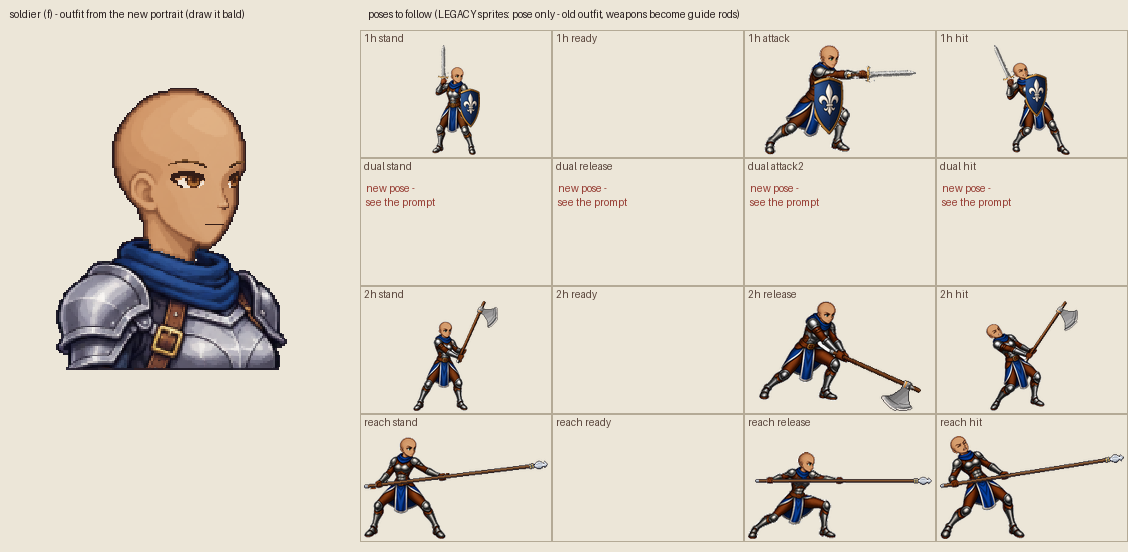
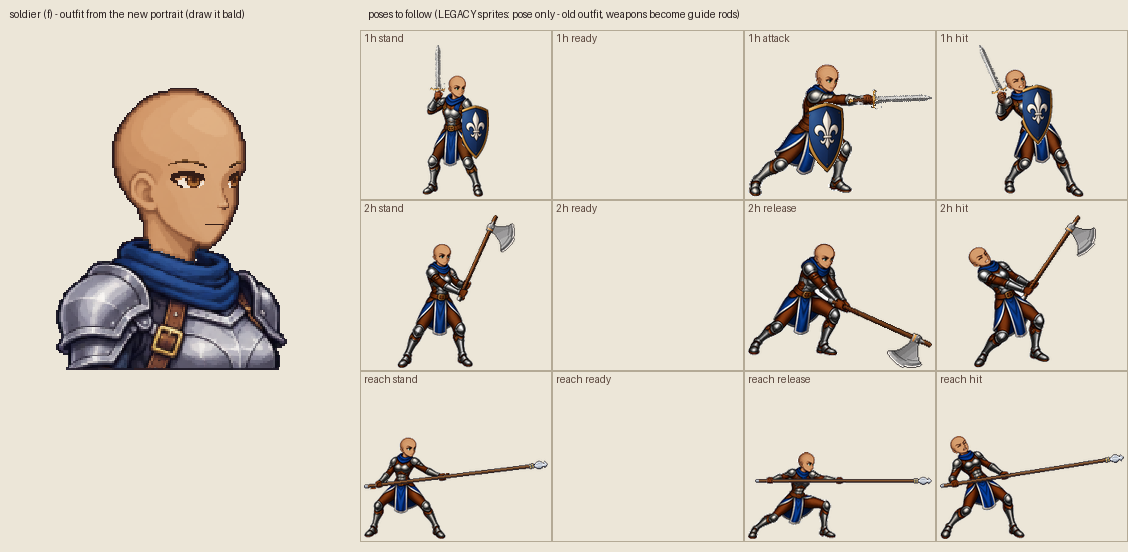
Soldier dual weapons on their own sheet (user's dual-slash concept)
New 2x3 dual template (stand, ready, slash 1, slash 2, finish, get hit) and prompt that
names the arms by rod colour only (front = cyan, back = magenta). Main Soldier sheet is now
3 rows x 4 (shield, two-handed, spear). Pipeline: extra sheets per class (EXTRA_SHEETS),
old layouts per sheet (SHEET_ROWS keeps the male v5 sheet readable), per-sheet scaling,
slash/finish states and single-weapon playback.

Claude-Session: https://claude.ai/code/session_01M8ejkLTav7LEMdtajuWjkN

diff --git a/art_source/new_art/battle/process_battle.py b/art_source/new_art/battle/process_battle.py
@@ -27,7 +27,7 @@ import process_pose as PP          # (chdirs to poses/)
 import anim as A                   # (chdirs to animation/)
 from skin_layers import tint
 import finish
-from make_refs import CLASSES, cells, states_for
+from make_refs import CLASSES, cells, states_for, EXTRA_SHEETS, SHEET_ROWS
 os.chdir(cwd)
 
 FIG_H = 190                         # stand figure height in sprite pixels (Legacy: ~197 incl. outline)
@@ -281,21 +281,30 @@ PENDING = {}
 
 def process(cls):
     for d in ('layers', 'grips', 'sprites', 'source'): os.makedirs(os.path.join(HERE, d), exist_ok=True)
-    rows = CLASSES[cls]; data = {}
+    data = {}
     for sex in 'mf':
-        src = os.path.join(HERE, 'source', f'{cls}_{sex}_sheet.png')
-        if not os.path.exists(src): print('no sheet yet:', src); continue
-        a = np.asarray(Image.open(src).convert('RGB'))
-        sx, sy = a.shape[1] / 1536, a.shape[0] / 1024
-        cut = {}
-        for r, c, stance, state, (x0, y0, x1, y1) in cells(rows, cls):
-            box = (round(x0 * sx), round(y0 * sy), round(x1 * sx), round(y1 * sy))
-            cut[(stance, state)] = cut_cell(a, box)
-        hs = [figure_height(*cut[k])[0] for k in cut if k[1] == 'stand']
-        s = FIG_H / float(np.median(hs))
-        for (stance, state), (c, fg) in cut.items():
-            if stance in PENDING.get(cls, ()): continue
-            data[(sex, stance, state)] = one_cell(cls, sex, stance, state, c, fg, s)
+        rows = SHEET_ROWS.get((cls, sex), CLASSES[cls])
+        sheets = [(f'{cls}_{sex}_sheet.png', rows)] + [(f'{cls}_{nm}_{sex}_sheet.png', r_) for nm, r_ in EXTRA_SHEETS.get(cls, {}).items()]
+        have = [(f, r_) for f, r_ in sheets if os.path.exists(os.path.join(HERE, 'source', f))]
+        if not have: print('no sheet yet:', cls, sex); continue
+        extra_stances = {st for f, r_ in have[1:] if f != sheets[0][0] for st, _ in r_}
+        s = None
+        for fname, rws in have:
+            a = np.asarray(Image.open(os.path.join(HERE, 'source', fname)).convert('RGB'))
+            sx, sy = a.shape[1] / 1536, a.shape[0] / 1024
+            main = fname == sheets[0][0]
+            cut = {}
+            for r, c, stance, state, (x0, y0, x1, y1) in cells(rws, cls):
+                if main and stance in extra_stances: continue          # that stance comes from its own sheet now
+                box = (round(x0 * sx), round(y0 * sy), round(x1 * sx), round(y1 * sy))
+                cut[(stance, state)] = cut_cell(a, box)
+            hs = [figure_height(*cut[k])[0] for k in cut if k[1] == 'stand']
+            s_sheet = FIG_H / float(np.median(hs))                  # each sheet scaled by its own stand figures
+            if main: s = s_sheet
+            for (stance, state), (c, fg) in cut.items():
+                if stance in PENDING.get(cls, ()): continue
+                data[(sex, stance, state)] = one_cell(cls, sex, stance, state, c, fg, s_sheet)
+        if s is None: s = s_sheet
         # extra cells from fix sheets (same grid): e.g. the shield-braced 1h attack, used only with a shield
         for (xs, stance, state, tag, fname) in EXTRA.get(cls, []):
             if xs != sex or not os.path.exists(os.path.join(HERE, 'source', fname)): continue
@@ -332,9 +341,11 @@ def render(cls, data):
             hair, hramp, sramp = SAMPLE_HAIR[sex][li % len(SAMPLE_HAIR[sex])]
             frames = {}
             ref = None
-            sts = [t for t in states_for(cls, stance) if (sex, stance, t) in data]
-            if not any(w for h_, w, _ in items['attack'] if h_ == 'front'):
-                sts = [t for t in sts if t != 'attack2']            # one weapon: only the main-hand attack
+            ORDER = ['stand', 'ready', 'attack', 'attack2', 'slash_left', 'slash_right', 'finish', 'hit']
+            sts = [t for t in ORDER if (sex, stance, t) in data]
+            if not any(w for h_, w, _ in items['attack'] if h_ == 'front'):   # one weapon: only the main-hand (magenta) moves
+                sts = [t for t in sts if t not in ('attack2', 'slash_left')] if 'slash_right' not in sts else \
+                      [t for t in sts if t not in ('ready', 'slash_left')]
             for state in sts:
                 its = items.get(state) or items['attack']
                 shielded = any(w == 'shield' for _, w, _ in its)
@@ -356,9 +367,10 @@ def render(cls, data):
             rows.append((f'{cls} {sex} {load}  (sample hair: {hair}, {hramp}; skin {sramp})', frames))
     x0, x1 = 20, 399
     cw = x1 - x0; ch = 270
-    sheet = Image.new('RGB', (2 * (cw * 4 + 12), ((len(rows) + 1) // 2) * (ch + 16)), (236, 230, 216)); d = ImageDraw.Draw(sheet)
+    NC = max(len(fr) for _, fr in rows) if rows else 4
+    sheet = Image.new('RGB', (2 * (cw * NC + 12), ((len(rows) + 1) // 2) * (ch + 16)), (236, 230, 216)); d = ImageDraw.Draw(sheet)
     for i, (lab, fr) in enumerate(rows):
-        ox = (i % 2) * (cw * 4 + 12); oy = (i // 2) * (ch + 16)
+        ox = (i % 2) * (cw * NC + 12); oy = (i // 2) * (ch + 16)
         d.text((ox + 4, oy + 2), lab, fill=(60, 50, 40))
         for j, st in enumerate(fr):
             t = Image.fromarray(fr[st][:, x0:x1]); sheet.paste(t, (ox + j * cw, oy + 14), t)

diff --git a/art_source/new_art/battle/make_refs.py b/art_source/new_art/battle/make_refs.py
@@ -16,7 +16,8 @@ import finish
 
 # stance rows per class (design doc table) and the legacy loadout that shows each row's poses
 CLASSES = {
-    'soldier': [('1h', 'sword_shield'), ('dual', None), ('2h', 'greataxe'), ('reach', 'longspear')],   # v2 (user concept)
+    # v6 (2026-11-21): main sheet = shield, two-handed, spear; the dual weapons get their own sheet (EXTRA_SHEETS)
+    'soldier': [('1h', 'sword_shield'), ('2h', 'greataxe'), ('reach', 'longspear')],
     'archer':  [('1h', 'dagger'), ('bow', 'bow'), ('crossbow', None)],
     'acolyte': [('1h', 'mace_shield'), ('2h', 'quarterstaff'), ('reach', 'longspear')],
     'mage':    [('1h', 'staff')],
@@ -36,21 +37,28 @@ CLASS_STATES = {'soldier': {'1h': ['stand', 'ready', 'attack', 'hit'], 'dual': [
                             '2h': ['stand', 'ready', 'attack', 'hit'], 'reach': ['stand', 'ready', 'attack', 'hit']}}
 
 
+# extra sheets per class: name -> rows of (stance, [cell states]). Soldier dual = user's dual-slash concept (2026-11-21):
+# stand, ready (front/cyan arm winds up), slash_left (cyan slashes down), slash_right (magenta sweeps), finish, hit
+EXTRA_SHEETS = {'soldier': {'dual': [('dual', ['stand', 'ready', 'slash_left']), ('dual', ['slash_right', 'finish', 'hit'])]}}
+# older sheets drawn on an earlier layout: (class, sex) -> rows
+SHEET_ROWS = {('soldier', 'm'): [('1h', 'sword_shield'), ('dual', None), ('2h', 'greataxe'), ('reach', 'longspear')]}   # v5 male
+
+
 def states_for(cls, stance):
     return CLASS_STATES.get(cls, {}).get(stance) or STATES.get(stance, ['stand', 'attack', 'hit'])
 
 
 def cells(rows, cls=None):
     rh = H / len(rows)
-    for r, (stance, _) in enumerate(rows):
-        states = states_for(cls, stance)
+    for r, (stance, extra) in enumerate(rows):
+        states = extra if isinstance(extra, list) else states_for(cls, stance)
         cw = W / len(states)
         for c, st in enumerate(states):
             yield r, c, stance, st, (round(c * cw), round(r * rh), round((c + 1) * cw), round((r + 1) * rh))
 
 
-def template(cls):
-    rows = CLASSES[cls]
+def template(cls, rows=None, name=None):
+    rows = rows or CLASSES[cls]
     im = Image.new('RGB', (W, H), GREEN); d = ImageDraw.Draw(im)
     for r, c, stance, st, (x0, y0, x1, y1) in cells(rows, cls):
         h = y1 - y0
@@ -59,7 +67,7 @@ def template(cls):
         d.line([x0 + 12, g, x1 - 12, g], fill=GROUND, width=3)
         for x in range(x0 + 12, x1 - 12, 24): d.line([x, t, x + 12, t], fill=TOP, width=2)
     os.makedirs(os.path.join(HERE, 'templates'), exist_ok=True)
-    im.save(os.path.join(HERE, 'templates', f'{cls}_template.png'))
+    im.save(os.path.join(HERE, 'templates', f'{name or cls}_template.png'))
 
 
 def bust(sex, cls):
@@ -117,5 +125,6 @@ if __name__ == '__main__':
     ammo_template()
     for cls in CLASSES:
         template(cls)
+        for nm, rows_x in EXTRA_SHEETS.get(cls, {}).items(): template(cls, rows_x, f'{cls}_{nm}')
         for sex in 'mf': ref(cls, sex)
     print('ok')

diff --git a/art_source/new_art/battle/PROMPTS.md b/art_source/new_art/battle/PROMPTS.md
@@ -47,30 +47,29 @@ sheet has a crossbow row (stand | aim | release | hit, user's choice 2026-11-19)
 
 ## Class blocks (paste after the common prompt)
 
-### Soldier (v5, 2026-11-20 - self-contained, do NOT paste the common prompt)
-v5 = 4 cells per row (user, 2026-11-20): STAND | READY | ATTACK | GET HIT, and the dual row STAND | ATTACK 1 (main
-hand) | ATTACK 2 (off-hand) | GET HIT. Otherwise as v4 = dual row with fixed hands (see the hand rule below) and a long-hair piece in a
-red key under the helmet for both sexes (shown only for long portrait hairstyles, `hair_length.json`).
+### Soldier main sheet (v6, 2026-11-21 - self-contained, do NOT paste the common prompt)
+Main sheet = shield, two-handed and spear rows, 4 cells each (STAND | READY | ATTACK | GET HIT); the dual weapons have
+their own sheet (next section). Long-hair piece in a red key under the helmet for both sexes (shown only for long
+portrait hairstyles, `hair_length.json`).
 Attach, in this order: (1) `templates/soldier_template.png`, (2) `source/concepts/soldier_outfit_ref.png` (the final design cropped to the outfit only: its animation frames had the dual
 weapons in the wrong hands, so they are left out),
 (3) `refs/soldier_shield_ref.png`. Replace `<SEX>`, add the male or female line, one run per sex.
 
 ```
-Use the first attached image as the canvas: a grid of 4 rows x 4 cells on flat pure green (#00FF00), each cell with a dark-green ground line and a dashed head-top line. Keep the canvas size, the grid and the green exactly as they are. Draw ONE full-body character per cell, feet on that cell's ground line, top of the helmet at the dashed line when standing upright, all 16 figures at the same scale and the same character.
+Use the first attached image as the canvas: a grid of 3 rows x 4 cells on flat pure green (#00FF00), each cell with a dark-green ground line and a dashed head-top line. Keep the canvas size, the grid and the green exactly as they are. Draw ONE full-body character per cell, feet on that cell's ground line, top of the helmet at the dashed line when standing upright, all 12 figures at the same scale and the same character.
 
 Character: <SEX> Soldier, exactly as in the second attached image (outfit reference only - it shows no poses): Standard plain BARBUTE helm (open face, no crest, no gold, no emblem), simple silver plate armour (rounded pauldrons, plain cuirass, segmented tassets), blue scarf, blue tabard with a light trim, brown leather belt and gloves, steel greaves. Ignore its text labels. Style: Fire Emblem-style anime pixel art matching that sheet: clean dark outlines, cel shading, light from the upper left, natural anime proportions about 6 heads tall including the helmet, 3/4 view FACING RIGHT in every cell, body turned to the right.
 
-Rows, top to bottom. Rows 1, 3 and 4: cells left to right = STAND | READY | ATTACK | GET HIT, where READY is the wind-up a moment before the attack. Row 2: STAND | ATTACK 1 | ATTACK 2 | GET HIT.
+Rows, top to bottom; cells left to right = STAND | READY | ATTACK | GET HIT, where READY is the wind-up a moment before the attack.
 1. Sword + SQUARE shield (the third attached image shows STAND, ATTACK and GET HIT - copy those poses only): the LEFT arm carries the Soldier's own large SQUARE shield in every cell of this row: an upright rectangle with slightly rounded corners, from the shoulder to mid-thigh, as wide as the torso, dark navy-blue face with a silver/white cross in relief, a silver steel rim with rivets - no gold or yellow on it. The left fist is hidden behind the shield (no cyan rod in this row). STAND = guard: shield held upright in front of the torso, covering it; right fist raised beside the shoulder with the magenta rod pointing up (sword raised). READY = wind-up: shield pulled in tight in front of the chest, body coiled, weight on the back foot, the right arm drawn back behind the shoulder with the magenta rod angled back. ATTACK = controlled horizontal slash: deep lunge forward, the right arm sweeps across IN FRONT of the body at waist height, magenta rod pointing forward and slightly down; the shield opens slightly to the side (still on the left arm, turned a little outward) so the sword arm passes in front of it. GET HIT = grounded recoil: feet planted, knees bent, braced behind the shield, the shield tilted up and forward to absorb the blow, head knocked back and wincing, right fist low by the hip holding the magenta rod pointing down.
-2. Dual weapons (no shield): the same side-on stance as the shield row - the LEFT arm is the lead arm in front (on the right-hand side of the picture, where the shield arm is in row 1) and the RIGHT arm is the rear arm (its shoulder on the left side of the picture). STAND = left (lead) hand forward at waist height holding the cyan rod pointing forward and slightly down; right (rear) hand back and low holding the magenta rod. ATTACK 1 (main hand) = the RIGHT (rear) arm swings forward ACROSS the front of the body and thrusts out at shoulder height holding the magenta rod level and pointing forward; the left arm pulls back and down with the cyan rod. ATTACK 2 (off-hand) = the LEFT (lead) arm thrusts fully forward at shoulder height holding the cyan rod level; the right arm pulls back low with the magenta rod. GET HIT = recoiling back, wincing, left hand in front with the cyan rod, right hand back with the magenta rod.
-3. Two-handed (no shield): both fists together on ONE magenta rod (one fist above the other). STAND = rod held upright in front of the body, fists at the waist. READY = wind-up: rod raised high over the right shoulder, both fists together above the head, body leaning back, weight on the back foot. ATTACK = heavy downward strike finishing low in front, rod angled down and forward, deep lunge. GET HIT = recoiling back, rod pulled up across the body.
-4. Spear (no shield): ONE long magenta pole, as long as the body is tall, held at hip height through both fists, front fist forward, back fist at the rear hip. STAND = spear guard, pole level and pointing forward. READY = coiled: pole drawn back along the hip, back fist far behind the body, front fist close to the chest, crouched, weight on the back foot. ATTACK = full forward thrust, deep lunge, pole level. GET HIT = recoiling back, pole still held, tip lifted.
+2. Two-handed (no shield): both fists together on ONE magenta rod (one fist above the other). STAND = rod held upright in front of the body, fists at the waist. READY = wind-up: rod raised high over the right shoulder, both fists together above the head, body leaning back, weight on the back foot. ATTACK = heavy downward strike finishing low in front, rod angled down and forward, deep lunge. GET HIT = recoiling back, rod pulled up across the body.
+3. Spear (no shield): ONE long magenta pole, as long as the body is tall, held at hip height through both fists, front fist forward, back fist at the rear hip. STAND = spear guard, pole level and pointing forward. READY = coiled: pole drawn back along the hip, back fist far behind the body, front fist close to the chest, crouched, weight on the back foot. ATTACK = full forward thrust, deep lunge, pole level. GET HIT = recoiling back, pole still held, tip lifted.
 
 Hair under the helmet: in EVERY cell, a ponytail of long hair comes out from under the back of the helmet and hangs down behind the neck, following each pose (swinging back in the lunges, flicking up in the get-hit poses). It always stays BEHIND the body: it never covers the armour, scarf, arms or face, so the figure looks complete without it. Paint the hair entirely in shades of pure red (#FF0000 family: very dark red for the outline and shadows, mid red, bright red for highlights), shaded like hair - no black outline on it. No other hair visible.
 
 Hard rules:
 - No weapons and no capes. The square shield appears ONLY in row 1. Each fist that holds a weapon grips a flat, straight guide rod instead, 2-3% of the figure height thick, sticking out of both sides of the fist where the handle would be, fingers wrapped over it: pure magenta (#FF00FF) in the character's RIGHT hand, pure cyan (#00FFFF) in the LEFT hand. Flat single colours, no shading or outline. No other magenta or cyan anywhere.
-- Hands (same in every cell): the character's LEFT arm is the lead arm, on the right-hand side of the picture (the shield arm in row 1); the RIGHT arm is the rear arm, its shoulder on the left side of the picture. Magenta is ALWAYS in the right (rear-arm) hand, cyan ALWAYS in the left (lead-arm) hand - a rod never changes hands between cells. When the right arm attacks, it swings forward across the front of the body.
+- Rods: magenta is ALWAYS in the hand of the BACK arm (its shoulder on the left side of the picture - the sword arm of row 1); in rows 2 and 3 both fists share the one magenta rod.
 - The barbute helm is worn in every cell, same design.
 - The face is the only bare skin: paint it in shades of pure yellow (red = green, blue near zero): dark yellow for shadows, bright yellow for highlights, shaded like normal skin. Small anime face: dark eye lines, a tiny bit of white, short mouth line. Nothing else may be yellow or gold.
 - Pure red is used ONLY for the hair. Leather and trims stay brown or blue.
@@ -82,7 +81,46 @@ curved waist and hips, visible chest under the armour, slimmer limbs, smaller pa
 larger eyes and a small chin, same armour and helmet."
 
 Earlier Soldier sheets: v1 in `source/soldier_v1/`, v2 (bald) in `source/soldier_v2/`; v3 in `source/soldier_v3/`, v4 (3 cells per row) in
-`source/soldier_v4/`; v5 sheets go to `source/soldier_<sex>_sheet.png`. The current sprites stay until then.
+`source/soldier_v4/`. The male v5 sheet (4 x 4, with the old dual row) is still `source/soldier_m_sheet.png` and is read
+with its old layout (`SHEET_ROWS` in `make_refs.py`); the female should use this v6 main sheet + the dual sheet.
+
+### Soldier dual weapons (own sheet, 2026-11-21, from the user's concept `source/concepts/dual_slash_concept.png`)
+Attach, in this order: (1) `templates/soldier_dual_template.png` (2 rows x 3 cells), (2) `source/concepts/soldier_outfit_ref.png`,
+(3) `source/concepts/dual_slash_concept.png` (poses only). Replace `<SEX>`, add the male/female line. The arms are named by
+their ROD COLOUR, never "left/right", because ChatGPT mixes up the character's left and right in a right-facing view.
+
+```
+Use the first attached image as the canvas: a grid of 2 rows x 3 cells on flat pure green (#00FF00), each cell with a dark-green ground line and a dashed head-top line. Keep the canvas size, the grid and the green exactly as they are. Draw ONE full-body character per cell, feet on that cell's ground line, top of the helmet at the dashed line when standing upright, all 6 figures at the same scale and the same character.
+
+Character: <SEX> Soldier, exactly as in the second attached image (outfit reference only): Standard plain BARBUTE helm (open face, no crest, no gold, no emblem), simple silver plate armour, blue scarf, blue tabard with a light trim, brown leather belt and gloves, steel greaves. No shield. Style: Fire Emblem-style anime pixel art matching that sheet: clean dark outlines, cel shading, light from the upper left, about 6 heads tall including the helmet, 3/4 view FACING RIGHT in every cell.
+
+Poses: copy the dual-sword attack of the third attached image (poses only - ignore its character, outfit, swords, slash arcs and text). Each hand grips a flat straight guide rod instead of a sword:
+- the FRONT arm - its shoulder on the RIGHT side of the picture, closer to where the character faces - always holds the CYAN rod (#00FFFF);
+- the BACK arm - its shoulder on the LEFT side of the picture - always holds the MAGENTA rod (#FF00FF).
+The rods NEVER change arms. Below, the arms are named by their rod colour.
+
+Cells, top row left to right, then bottom row left to right:
+1. STAND: low wide stance, both rods held low at the sides pointing down and outward - the cyan rod down and forward, the magenta rod down and back (concept: first figure).
+2. READY: the CYAN arm raised high above the head, its rod angled back over the head, ready to chop; the magenta arm low and back, its rod pointing down behind; weight shifting forward (concept: "Wind-up").
+3. SLASH 1: the CYAN arm has chopped down in front of the body, its rod pointing down and forward near the front foot; the magenta arm still low and back (concept: "Slash Down").
+4. SLASH 2: deep lunge; the MAGENTA arm sweeps horizontally across the front of the body at waist height (mid-swing), its rod level; the cyan arm pulled back low (concept: "Slash").
+5. FINISH: follow-through; the MAGENTA arm fully extended forward at shoulder height, its rod level and pointing forward; the cyan arm pulled back and down behind the body, its rod pointing down and back; scarf and tabard swinging (concept: "Follow-through").
+6. GET HIT: recoiling back, knees bent, head knocked back, wincing; cyan rod still in the front hand, magenta rod in the back hand, both held low.
+
+Hair under the helmet: in EVERY cell, a ponytail of long hair comes out from under the back of the helmet and hangs down behind the neck, following each pose. It always stays BEHIND the body: it never covers the armour, scarf, arms or face. Paint the hair entirely in shades of pure red (#FF0000 family: very dark red for the outline and shadows, mid red, bright red for highlights) - no black outline on it.
+
+Hard rules:
+- No swords or other weapons, no shield, no cape. Rods: flat single colours, no shading or outline, 2-3% of the figure height thick, sticking out of both sides of the fist where the handle would be, fingers wrapped over them. No other magenta or cyan anywhere.
+- The face is the only bare skin: shades of pure yellow (red = green, blue near zero), shaded like normal skin. Small anime face: dark eye lines, a tiny bit of white, short mouth line. Nothing else may be yellow or gold.
+- Pure red is used ONLY for the hair.
+- No text, labels, slash arcs, motion lines, dust, shadows on the ground or background objects.
+- Output one PNG at the canvas's exact size.
+```
+Male line: "Male: broad, sturdy frame." Female line: "Female: clearly feminine - smaller frame, narrower shoulders, curved
+waist and hips, visible chest under the armour, slimmer limbs, smaller pauldrons, a soft feminine face with larger eyes and
+a small chin, same armour and helmet."
+In game: stand -> ready -> slash 1 (cyan / off-hand weapon) -> slash 2 (magenta / main-hand weapon) -> finish -> stand.
+One weapon only (no shield): stand -> slash 2 -> finish, from the magenta (main) hand.
 
 ### Archer
 > Character: **<SEX> Archer** (light armour and hooded cloak with the hood DOWN, from the portrait). Rows, top to bottom:

diff --git a/docs/design-decisions.md b/docs/design-decisions.md
@@ -28,7 +28,7 @@ Armor ladder: **cloth → light → medium → heavy**. "Up to X" includes every
 
 Archer and Mage melee weapons limited to **light** weapons on 2026-11-16 (user: "wear only light weapon", read as weapons, not armor). Read as light **simple** weapons, since both classes were simple-only before; light martial (short sword, kukri) not confirmed. In PF1e sizes, club and shortspear (both in the user's original Archer list) are one-handed, not light, so they are now excluded unless the user re-sizes them.
 
-**Shields (user, 2026-11-20): each class has its own shield shape** — Soldier = **square** shield, Acolyte and Warrior = **round** shield (the Warrior could not use shields before; this adds it), **kite shield = reserved for a future Knight class**. A one-handed weapon **without** a shield uses the **dual-weapon stance** (left hand empty) in battle sprites. **The shield look is fixed per class** (user, 2026-11-20): shield equipment comes in broad categories (**light shield, heavy shield, tower shield**) that change the rules only; the sprite and the shield stance always show the class's own shield. Shield categories are not in the weapon sheet yet. **Headgear (user, 2026-11-20): battle sprites wear class headgear, portraits never do.** It is drawn into the sprite body by ChatGPT, so battle sprites have **no hair layer** (the portrait-hair sample is dropped for helmeted classes, `HEADGEAR` in `process_battle.py`). **Soldier final design** (`source/concepts/soldier_final_design.png`): plain open-face **barbute helm** (no crest, gold or emblem), simple silver plate armour, blue scarf and tabard, brown leather belt and gloves; the face is the only skin (yellow key). Soldier v3 prompt in `PROMPTS.md` (4 rows: square shield, dual, two-handed, spear), ~6 heads tall including the helmet. Helmet variations and faction colours on that sheet are not used. **Hair under the helmet (user, 2026-11-20):** ChatGPT draws a long-hair ponytail behind the neck in shades of **pure red** (never covering the body); `process_battle.py` cuts it into a hair value-map layer tinted with the hero's hair ramp and shows it **only for long portrait hairstyles** (`art_source/new_art/battle/hair_length.json`: male ponytail, long, wild_mane; female long, ponytail, braids, wavy, side_braid, curly_mane, warrior_halfup; buns/topknots/crown braids count as short). Both sexes get the piece. **Four sprites per stance (user, 2026-11-20, extends the three-sprite rule):** STAND | **READY** (the wind-up a moment before the attack) | ATTACK | GET HIT; the **dual row** is STAND | **ATTACK 1 (main hand)** | **ATTACK 2 (off-hand)** | GET HIT, because dual wield hits twice. Playback: stand → ready → attack → stand (dual: stand → attack 1 → attack 2 → stand); one weapon in the dual stance uses only attack 1. Soldier template is now 4 × 4 (`make_refs.py` `CLASS_STATES`), prompt v5 in `PROMPTS.md`. **Hand convention (corrected 2026-11-20):** in right-facing sprites the character's **LEFT arm is the lead arm** (right side of the picture, the shield arm) and the **RIGHT arm is the rear arm**; magenta (main weapon) is always in the right/rear hand, cyan in the left/lead hand, and the main-hand attack swings the rear arm forward across the body. An earlier prompt rule ("right hand leading on the right of the picture") was wrong and made ChatGPT draw both dual attacks with the left arm; the v5 male sheet's dual stand/hit are swapped back in code (`SWAP_HANDS`) and its ATTACK 1 needs the edit prompt in `PROMPTS.md`. **Dual row:** the first helmet sheets drew the dual stand facing the viewer and the attack side-on, so the weapon seemed to change hands; the Soldier v4 prompt keeps the right hand leading on the right of the figure in all three poses.
+**Shields (user, 2026-11-20): each class has its own shield shape** — Soldier = **square** shield, Acolyte and Warrior = **round** shield (the Warrior could not use shields before; this adds it), **kite shield = reserved for a future Knight class**. A one-handed weapon **without** a shield uses the **dual-weapon stance** (left hand empty) in battle sprites. **The shield look is fixed per class** (user, 2026-11-20): shield equipment comes in broad categories (**light shield, heavy shield, tower shield**) that change the rules only; the sprite and the shield stance always show the class's own shield. Shield categories are not in the weapon sheet yet. **Headgear (user, 2026-11-20): battle sprites wear class headgear, portraits never do.** It is drawn into the sprite body by ChatGPT, so battle sprites have **no hair layer** (the portrait-hair sample is dropped for helmeted classes, `HEADGEAR` in `process_battle.py`). **Soldier final design** (`source/concepts/soldier_final_design.png`): plain open-face **barbute helm** (no crest, gold or emblem), simple silver plate armour, blue scarf and tabard, brown leather belt and gloves; the face is the only skin (yellow key). Soldier v3 prompt in `PROMPTS.md` (4 rows: square shield, dual, two-handed, spear), ~6 heads tall including the helmet. Helmet variations and faction colours on that sheet are not used. **Hair under the helmet (user, 2026-11-20):** ChatGPT draws a long-hair ponytail behind the neck in shades of **pure red** (never covering the body); `process_battle.py` cuts it into a hair value-map layer tinted with the hero's hair ramp and shows it **only for long portrait hairstyles** (`art_source/new_art/battle/hair_length.json`: male ponytail, long, wild_mane; female long, ponytail, braids, wavy, side_braid, curly_mane, warrior_halfup; buns/topknots/crown braids count as short). Both sexes get the piece. **Four sprites per stance (user, 2026-11-20, extends the three-sprite rule):** STAND | **READY** (the wind-up a moment before the attack) | ATTACK | GET HIT; the **dual row** is STAND | **ATTACK 1 (main hand)** | **ATTACK 2 (off-hand)** | GET HIT, because dual wield hits twice. Playback: stand → ready → attack → stand (dual: stand → attack 1 → attack 2 → stand); one weapon in the dual stance uses only attack 1. Soldier template is now 4 × 4 (`make_refs.py` `CLASS_STATES`), prompt v5 in `PROMPTS.md`. **Hand convention (corrected 2026-11-20):** in right-facing sprites the character's **LEFT arm is the lead arm** (right side of the picture, the shield arm) and the **RIGHT arm is the rear arm**; magenta (main weapon) is always in the right/rear hand, cyan in the left/lead hand, and the main-hand attack swings the rear arm forward across the body. An earlier prompt rule ("right hand leading on the right of the picture") was wrong and made ChatGPT draw both dual attacks with the left arm; the v5 male sheet's dual stand/hit are swapped back in code (`SWAP_HANDS`) and its ATTACK 1 needs the edit prompt in `PROMPTS.md`. **Dual weapons get their own sheet (user's dual-slash concept, 2026-11-21):** stand → ready (front/cyan arm winds up) → slash 1 (cyan chops down) → slash 2 (magenta sweeps across) → finish (magenta follow-through) → plus get hit; template `soldier_dual_template.png` (2 × 3), prompt names the arms only by rod colour (front arm = cyan, back arm = magenta), never left/right. Main Soldier sheet is now 3 rows × 4 (shield, two-handed, spear). One weapon without shield plays stand → slash 2 → finish from the magenta hand. The off-hand (cyan) hit shows first, the main hand second. **Dual row:** the first helmet sheets drew the dual stand facing the viewer and the attack side-on, so the weapon seemed to change hands; the Soldier v4 prompt keeps the right hand leading on the right of the figure in all three poses.
 
 **Warrior look (user, 2026-11-18): a barbarian, but armored** — can wear up to medium armor, so leather and chain or scale over a barbarian build (furs, leather harness), not the old Brawler's sleeveless tunic. Exact outfit to be drawn with the new art. Legacy battle-sprite and portrait files keep the name `brawler` (they are the old look and reference only).
 
